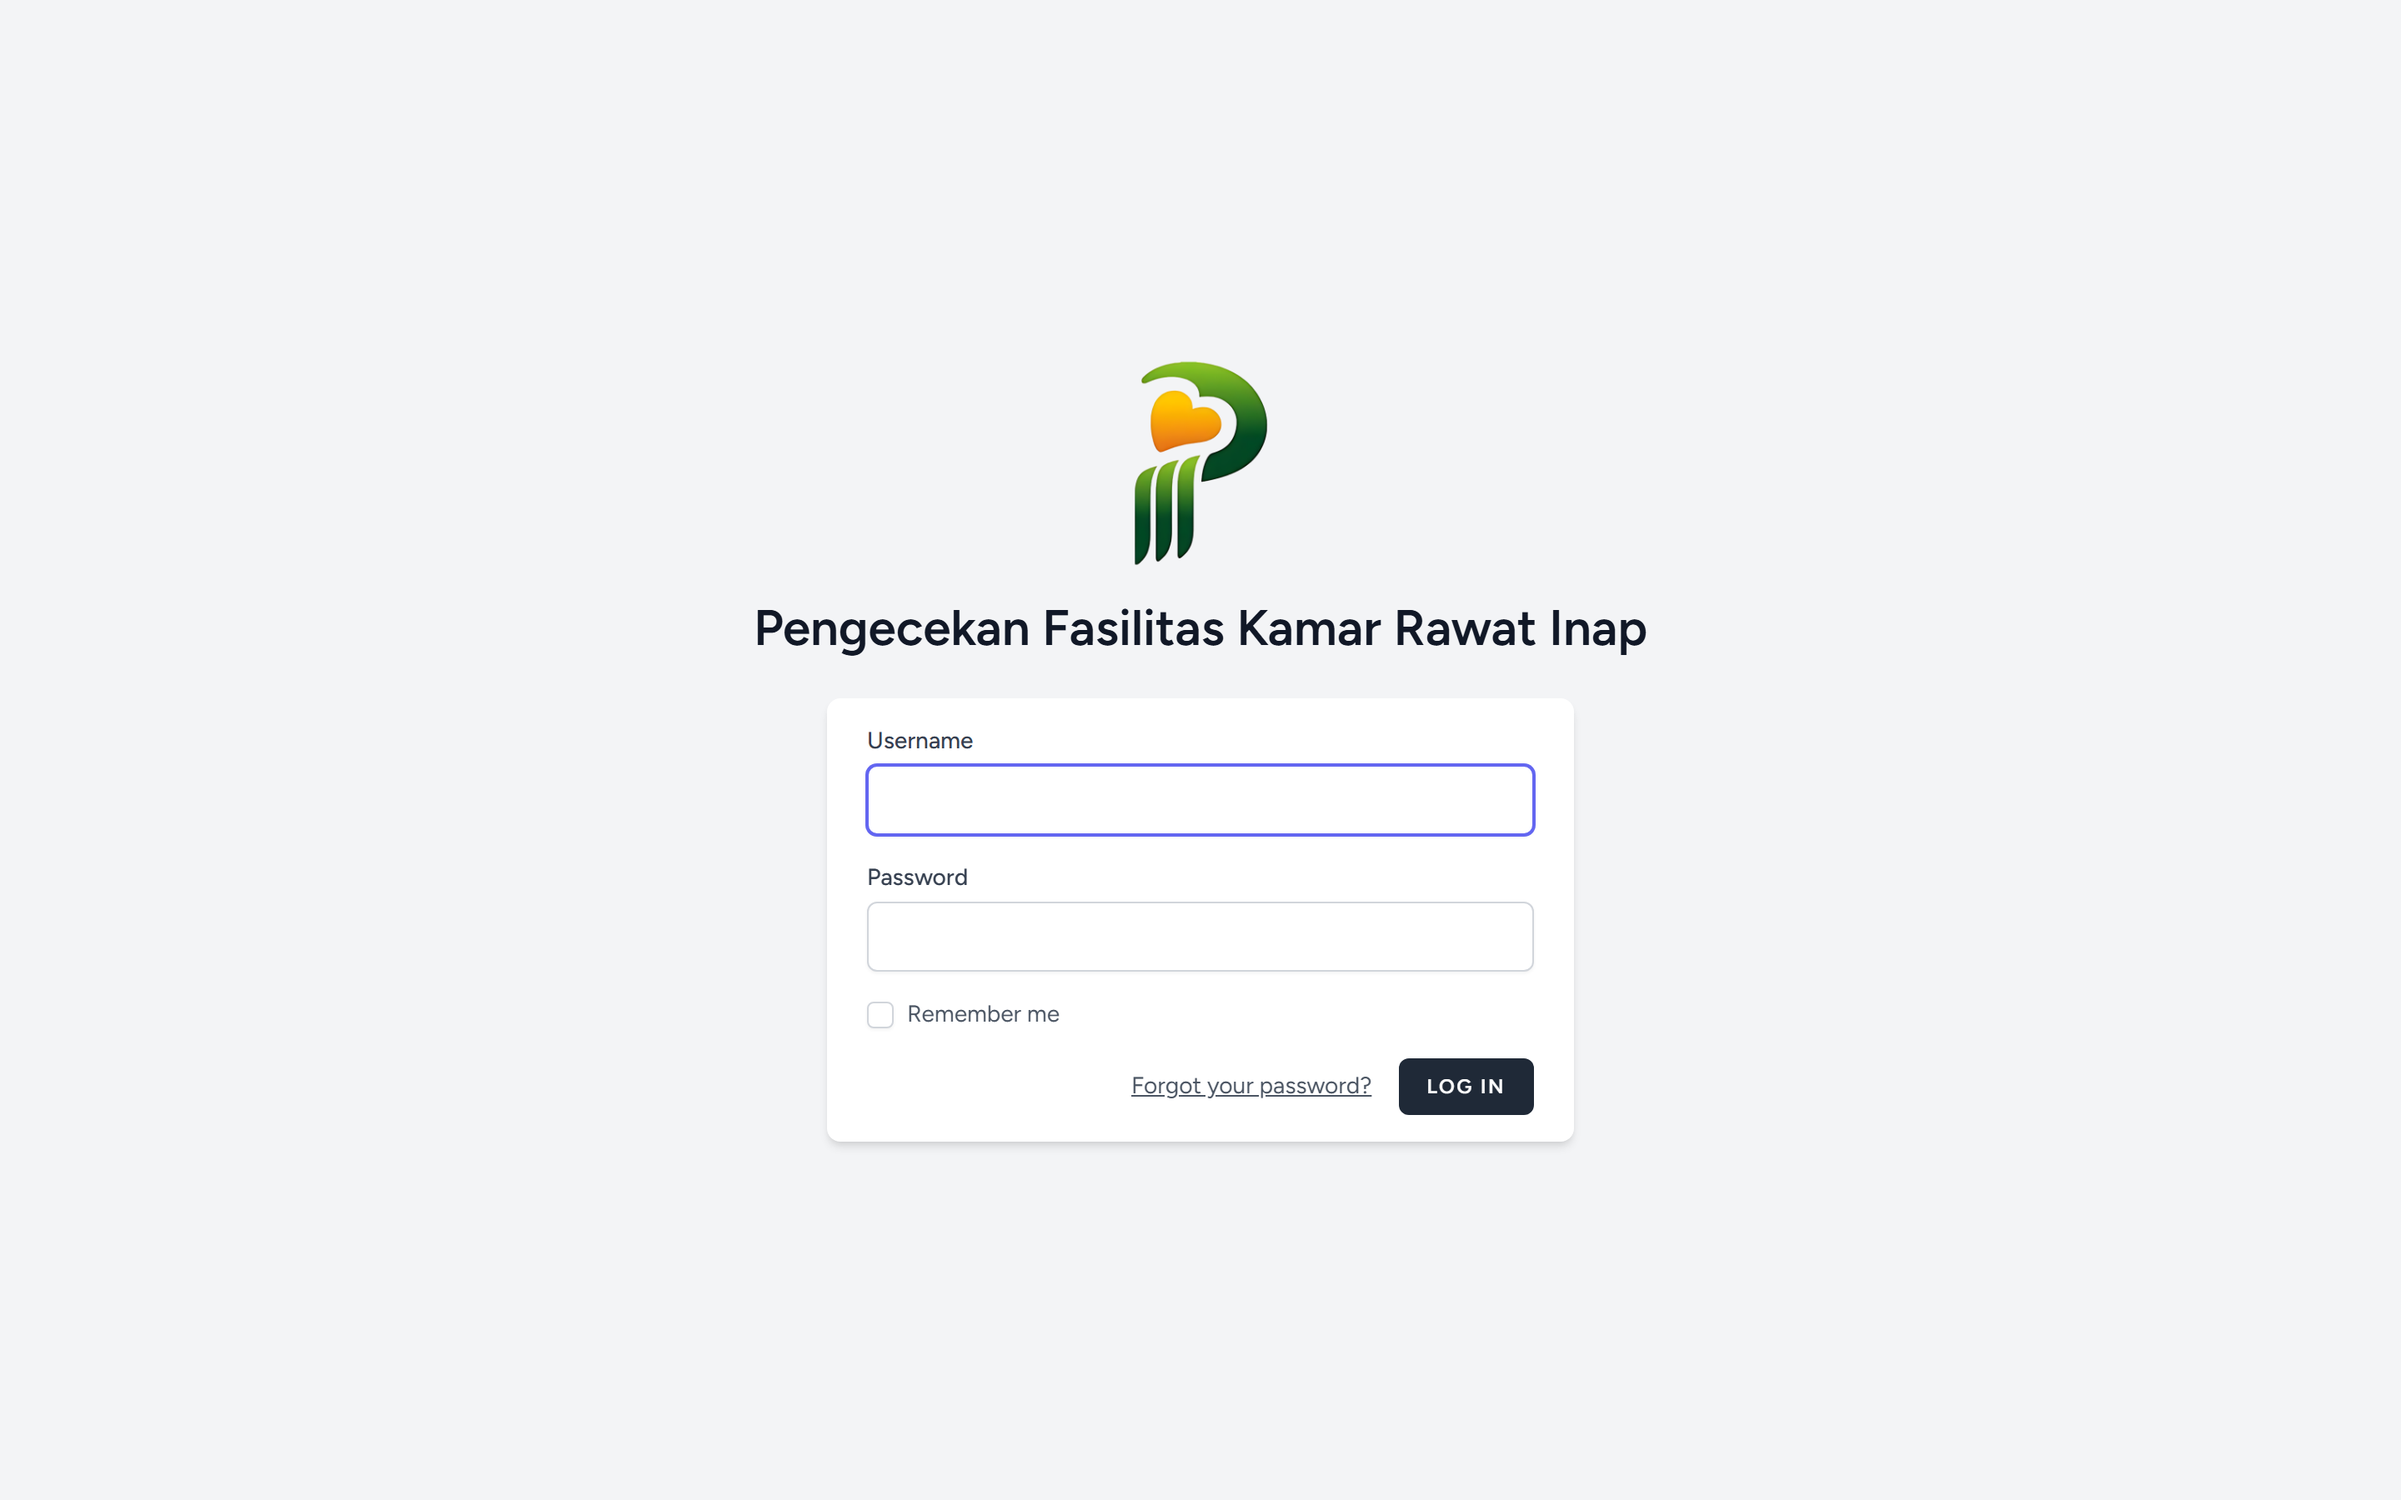
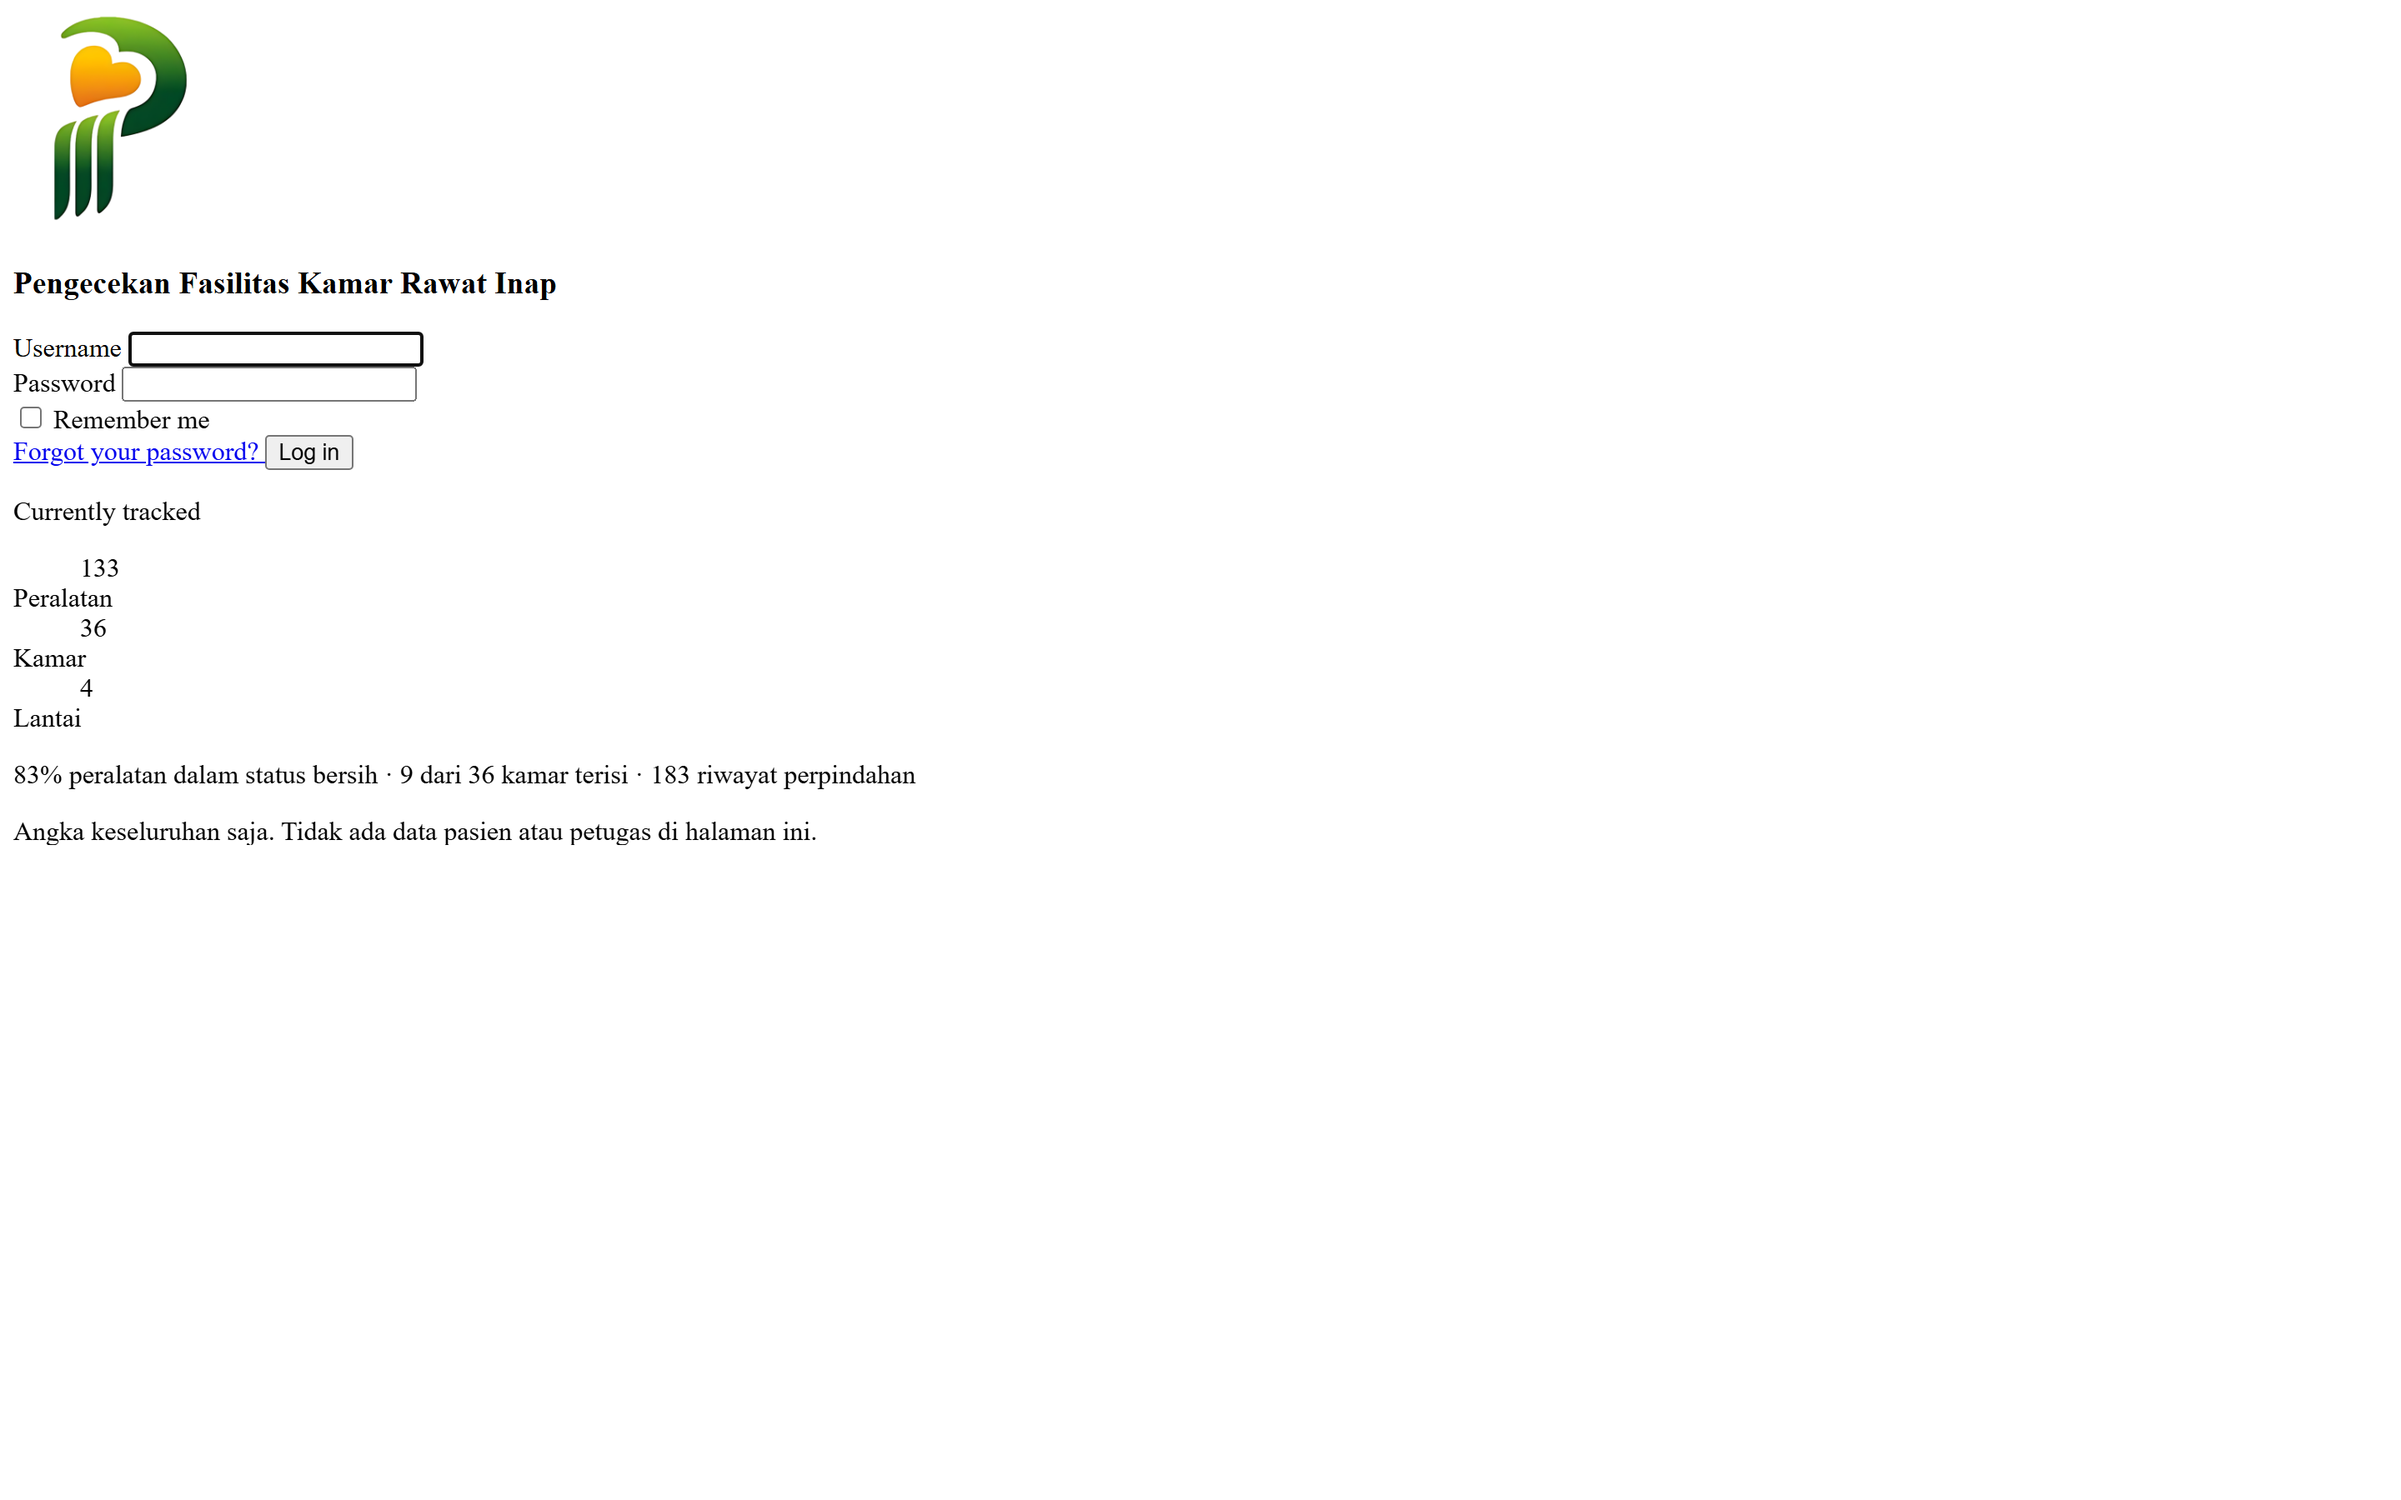
feat(portfolio): update Folio 01 SimAKSI live UI and replace Project 04 with PingLab

diff --git a/src/data/portfolio.ts b/src/data/portfolio.ts
@@ -183,7 +183,10 @@ export const projects: ProjectData[] = [
     description:
       "A web system that holds the performance data of every work area of the Surabaya Health Quarantine Centre.",
     outcome: "I designed, built and deployed the system alone.",
-    images: ["/images/projects/github-activity.png"],
+    images: [
+      "/images/projects/simaksi-live.png",
+      "/images/projects/simaksi-card.png",
+    ],
     accent: "ember",
     client: "Balai Besar Kekarantinaan Kesehatan Surabaya",
     year: "2025",
@@ -212,6 +215,7 @@ export const projects: ProjectData[] = [
     monitor: {
       access: "public",
       siteId: "simaksi",
+      dashboardUrl: "https://simaksi.yaumalatsal.com",
       note:
         "I run a public instance of this system. The figures below come from it, not from the agency.",
     },
@@ -276,7 +280,10 @@ export const projects: ProjectData[] = [
     description:
       "A system that shows which medical equipment is free and which rooms are ready. Staff scan a barcode to change the status.",
     outcome: "Barcode input keeps the record correct without extra work.",
-    images: ["/images/projects/baringan-live.png"],
+    images: [
+      "/images/projects/baringan-live.png",
+      "/images/projects/baringan-card.png",
+    ],
     accent: "moss",
     client: "RS Petrokimia (freelance)",
     year: "TODO(you)",
@@ -304,6 +311,7 @@ export const projects: ProjectData[] = [
     monitor: {
       access: "public",
       siteId: "baringan",
+      dashboardUrl: "https://baringan.yaumalatsal.com",
       demo: {
         label: "Email",
         username: "demo@baringan.test",
@@ -315,53 +323,48 @@ export const projects: ProjectData[] = [
   },
   {
     number: "04",
-    slug: "field-console",
-    title: "Operations Console",
-    category: "Monitoring / Next.js",
+    slug: "pinglab",
+    title: "Adaptive Learning Platform",
+    category: "Adaptive Systems / Laravel & AI",
     chapter: "Project 04",
     description:
-      "A console that watches each application I run. It keeps the uptime, the response times and a record of each fault.",
-    outcome: "No runtime npm dependencies. It keeps 90 days of history.",
-    images: ["/images/projects/field-console-live.png"],
+      "An adaptive learning platform with AI scaffolding. The platform reduces guidance as the student learns each concept.",
+    outcome: "Five levels of scaffolding that fade when the student proves competence.",
+    images: [
+      "/images/projects/pinglab-live.png",
+      "/images/projects/pinglab-card.png",
+    ],
     accent: "ivory",
-    client: "My own infrastructure",
-    year: "2026",
-    role: "Design and development",
+    client: "Research and academic platform",
+    year: "2025",
+    role: "Full-stack developer",
     overview:
-      "This console is the second half of this site. It calls each application at its own interval. It then changes the reply into one common shape. It writes a sample every 30 seconds. From these samples it calculates the uptime, the response time percentiles and the fault record. It writes to SQLite, so a new deployment does not delete the history.",
+      "Students learn at different speeds. This platform gives support to the student through five steps. It shows full examples at the start. It gives hints as the student works. The platform removes the help when the student works well alone.",
     challenge:
-      "Each application reports its health in a different shape. A separate integration for each one is slow to write. The tenth application never gets added.",
+      "A standard course shows the same text to each student. It cannot adjust the help to the current ability of the learner.",
     solution:
-      "An adapter sits between the poller and the pages. The default adapter reads the shape of any JSON reply. It finds the health, the services and the metrics. A new application works when you add its address. You write no code.",
+      "I built an adaptive engine in Laravel. The engine tests each answer. It then changes the level of help for the next task.",
     architecture: [
-      "One interval for each probe, so a slow probe does not delay the health check",
-      "An adapter layer that changes any JSON into one shape",
-      "SQLite through the built-in node:sqlite module, with no npm dependency",
-      "Fault records that the console derives from the samples",
-      "Pages that the server renders, so the first view shows real data",
+      "Laravel application with five scaffolding levels",
+      "Progression from full examples to independent work",
+      "Interactive code exercises with immediate feedback",
+      "Teacher view to inspect student progress and results",
     ],
-    techStack: [
-      "TypeScript",
-      "Next.js",
-      "React",
-      "SQLite",
-      "Docker",
-      "GitHub Actions",
-    ],
+    techStack: ["Laravel", "PHP", "MySQL", "Tailwind CSS", "JavaScript"],
     metrics: [
-      { label: "Client JavaScript", value: "179 KB gzipped" },
-      { label: "Runtime dependencies", value: "0" },
-      { label: "History", value: "90 days" },
+      { label: "Levels", value: "5 support tiers" },
+      { label: "Method", value: "Adaptive fading" },
+      { label: "Status", value: "Live production" },
     ],
-    observation: "A monitor that is hard to extend becomes a monitor nobody extends.",
-    response: "Make a new application one line of configuration.",
-    result: "The console shows an application that it has never seen before.",
+    observation: "One lesson does not fit every student.",
+    response: "Remove the help as the student learns.",
+    result: "The student moves from assisted work to independent mastery.",
     monitor: {
       access: "public",
-      trafficId: "portfolio",
-      dashboardUrl: "/console",
+      siteId: "pinglab",
+      dashboardUrl: "https://pinglab.yaumalatsal.com",
       note:
-        "This console is the project. The traffic below is the traffic of this site.",
+        "I run a live instance of this platform. You can test the learning paths directly.",
     },
   },
   {
